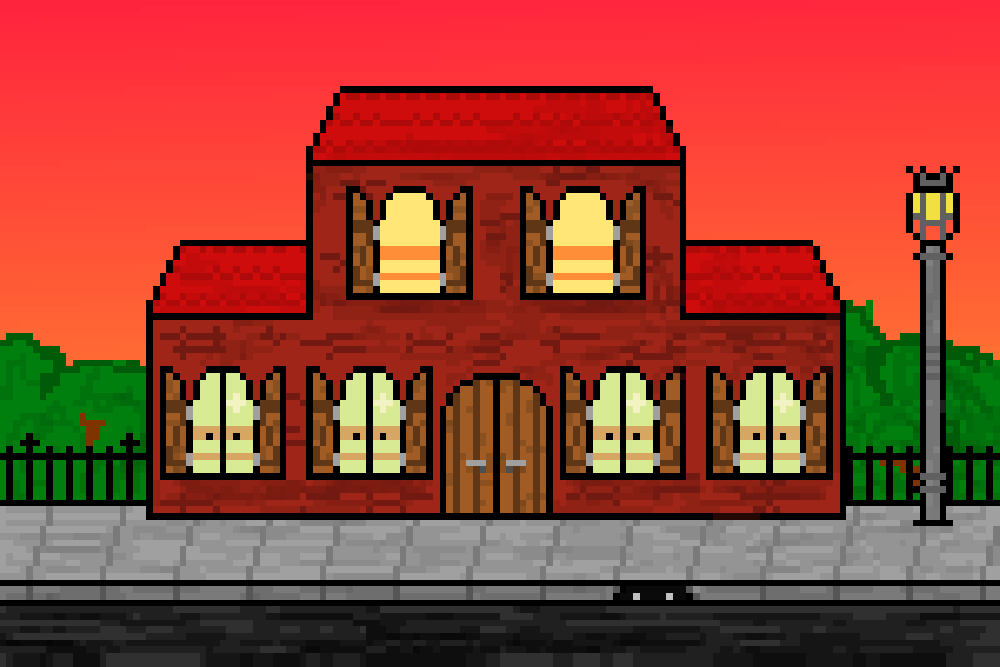
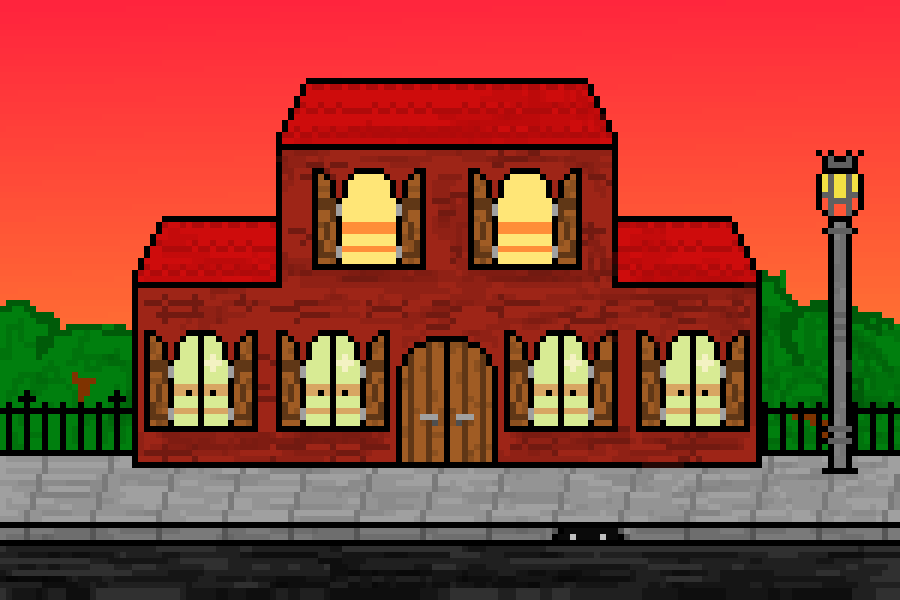
resize du background

diff --git a/style/style.css b/style/style.css
@@ -14,8 +14,8 @@ body {
 #mainDiv {
     margin: auto;
     background-image: url("../img/background.png");
-    height: 666px;
-    width: 1000px;
+    height: 600px;
+    width: 900px;
     border-style: solid;
     border-color: #eeeeee;
     padding: 0;
